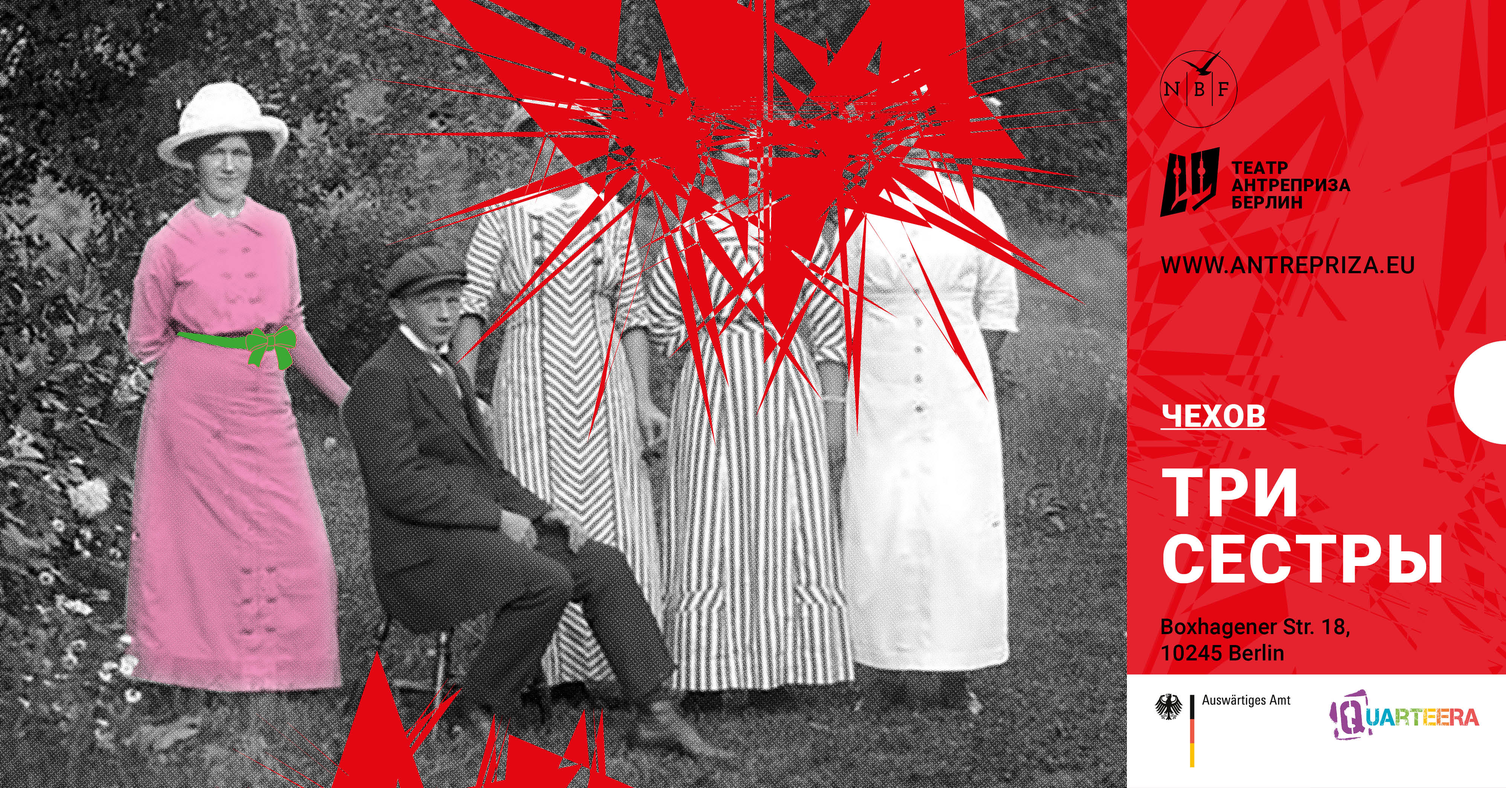
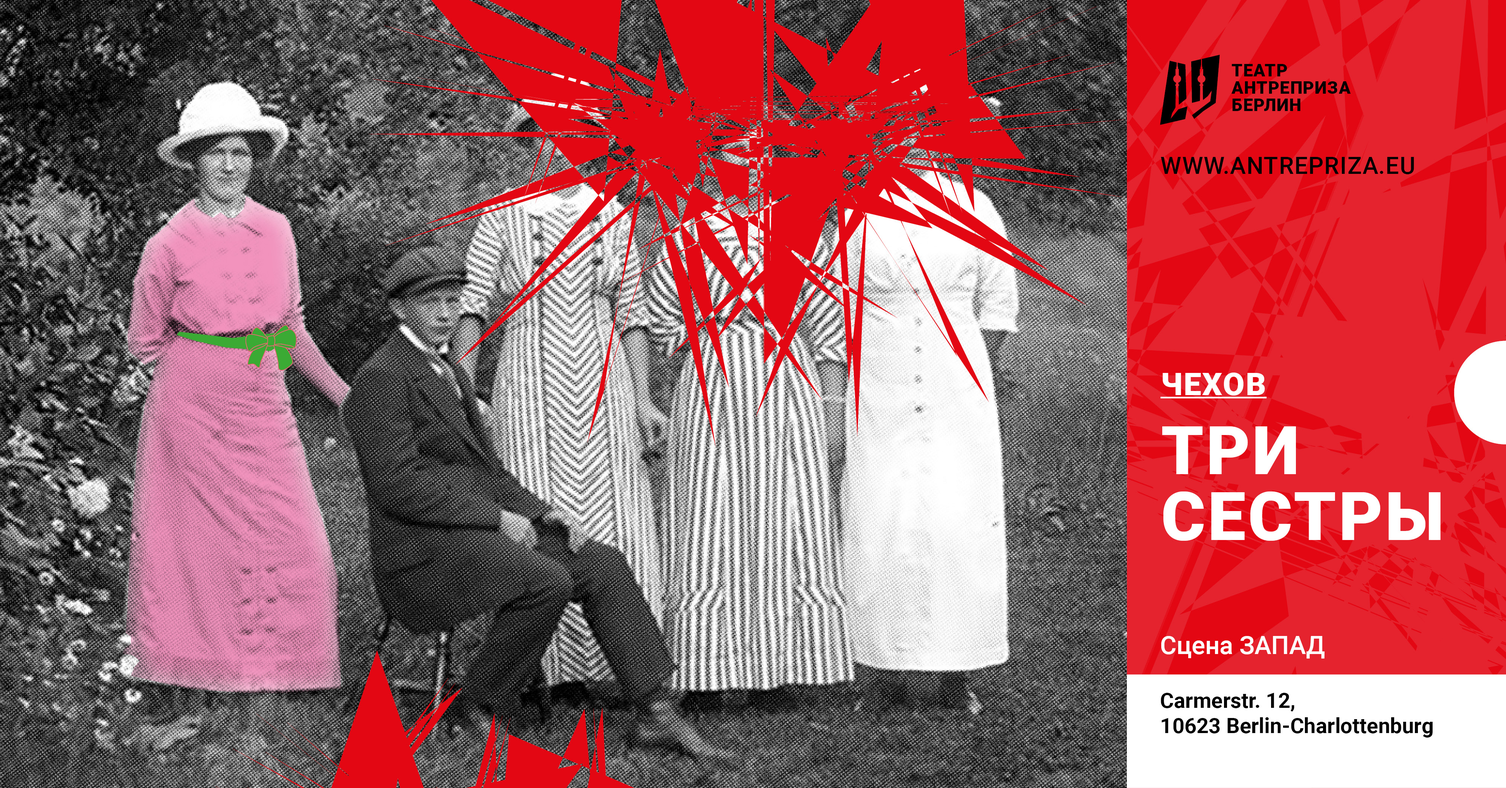
1. At theme-mode changing the current page jumped upstairs. Fixed! 2. Partner-list changed 3. Pictures for Three Sisters changed 4. Events-list updates at loading (js; for expired events)

diff --git a/src/scripts/antrepriza.js b/src/scripts/antrepriza.js
@@ -65,7 +65,9 @@ export function initThemeMode() {
 
 	themeSwitcher = document.querySelector('#theme-switcher');
 
-	themeSwitcher.addEventListener('change', () => {
+	themeSwitcher.addEventListener('change', event => {
+		event.stopImmediatePropagation();
+		event.preventDefault();
 		let newMode = themeSwitcher.checked ? consts.THEME_DARK : consts.THEME_LIGHT;
 		// document.body.dataset.theme = newMode;
 		localStorage.setItem(consts.CNF_MODE, newMode);
@@ -74,15 +76,21 @@ export function initThemeMode() {
 	themeSwitcher.checked = mode === consts.THEME_DARK;
 	themeSwitcher.dispatchEvent(new Event('change'));
 
+	const handleChange = event => {
+		event.preventDefault();
+		themeSwitcher.checked = !themeSwitcher.checked;
+		themeSwitcher.dispatchEvent(new Event('change'));
+	};
+
 	let themeSwitcherItems = document.querySelectorAll('.theme-switcher-label');
 	themeSwitcherItems.forEach(item => {
 		item.addEventListener('keydown', event => {
 			if (event.code === 'Enter' || event.code === 'Space') {
-				event.preventDefault();
-				themeSwitcher.checked = !themeSwitcher.checked;
-				themeSwitcher.dispatchEvent(new Event('change'));
+				handleChange(event);
 			}
 		});
+		// we should use our click-function to avoid page jumping up, because labels for the switcher are there
+		item.addEventListener('click', handleChange);
 	});
 }
 
@@ -163,6 +171,26 @@ export function initHoverModeForTouchScreen() {
 				currentHoverBlock = null;
 			}
 		});
+	}
+}
+
+/* --------------------------------------------------- */
+/* ------------------- Events Page ------------------- */
+/* --------------------------------------------------- */
+export function initEventsTab() {
+	let params = new URLSearchParams(document.location.search);
+
+	let stage = params.get('stage');
+	if (!stage) return;
+
+	stage = stage.toLowerCase();
+	if (stage === 'west') {
+		const checkbox = document.querySelector('#evs-tab-west');
+		if (checkbox) checkbox.checked = true;
+	}
+	if (stage === 'ost') {
+		const checkbox = document.querySelector('#evs-tab-ost');
+		if (checkbox) checkbox.checked = true;
 	}
 }
 

diff --git a/src/styles/init.css b/src/styles/init.css
@@ -1,20 +1,25 @@
-/* Extract from W3.CSS 4.15 December 2020 by Jan Egil and Borge Refsnes */
 html {
 	box-sizing: border-box;
+	overflow-x: hidden;
+	-ms-text-size-adjust: 100%;
+	-webkit-text-size-adjust: 100%;
+	-moz-text-size-adjust: 100%;
+}
+html,
+body {
+	font-family: Verdana, sans-serif;
+	font-size: 16px;
+	line-height: 1.5;
+}
+body {
+	margin: 0;
 }
 *,
 *:before,
 *:after {
 	box-sizing: inherit;
 }
-/* Extract from normalize.css by Nicolas Gallagher and Jonathan Neal git.io/normalize */
-html {
-	-ms-text-size-adjust: 100%;
-	-webkit-text-size-adjust: 100%;
-}
-body {
-	margin: 0;
-}
+
 article,
 aside,
 details,
@@ -179,15 +184,6 @@ textarea {
 	font: inherit;
 }
 /* End extract */
-html,
-body {
-	font-family: Verdana, sans-serif;
-	font-size: 16px;
-	line-height: 1.5;
-}
-html {
-	overflow-x: hidden;
-}
 h1 {
 	font-size: 36px;
 }

diff --git a/src/styles/footer.css b/src/styles/footer.css
@@ -151,7 +151,8 @@ footer .phone-number {
 .footer-partners .title {
 	/* text-align: end; */
 	padding-bottom: 0.3em;
-	font-size: clamp(0.75rem, 1.8vw, 0.9rem);
+	font-size: clamp(0.75rem, 1.8vw, 0.85rem);
+	font-weight: 400;
 }
 
 footer .logo-flex {
@@ -171,7 +172,12 @@ footer .logo-50 {
 footer .logo-75 {
 	max-width: 75px;
 }
-
+footer .logo-90 {
+	max-width: 90px;
+}
+footer .logo-100 {
+	max-width: 100px;
+}
 /* --------------------------------------------------- */
 /* --------------------- Newsletter ------------------ */
 /* --------------------------------------------------- */
